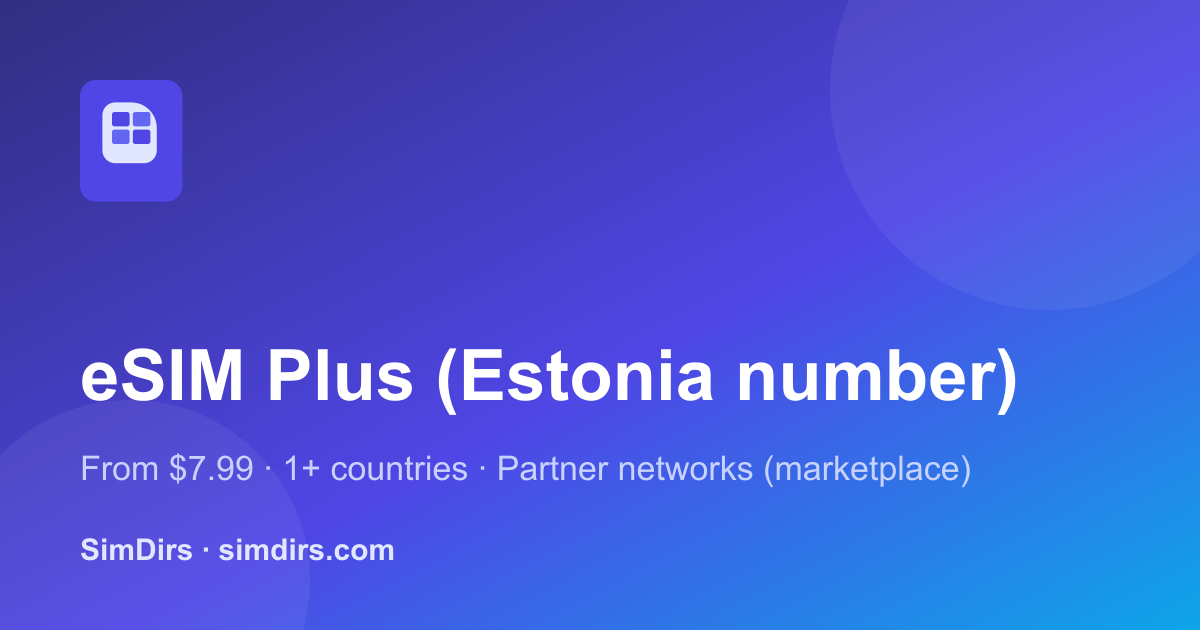
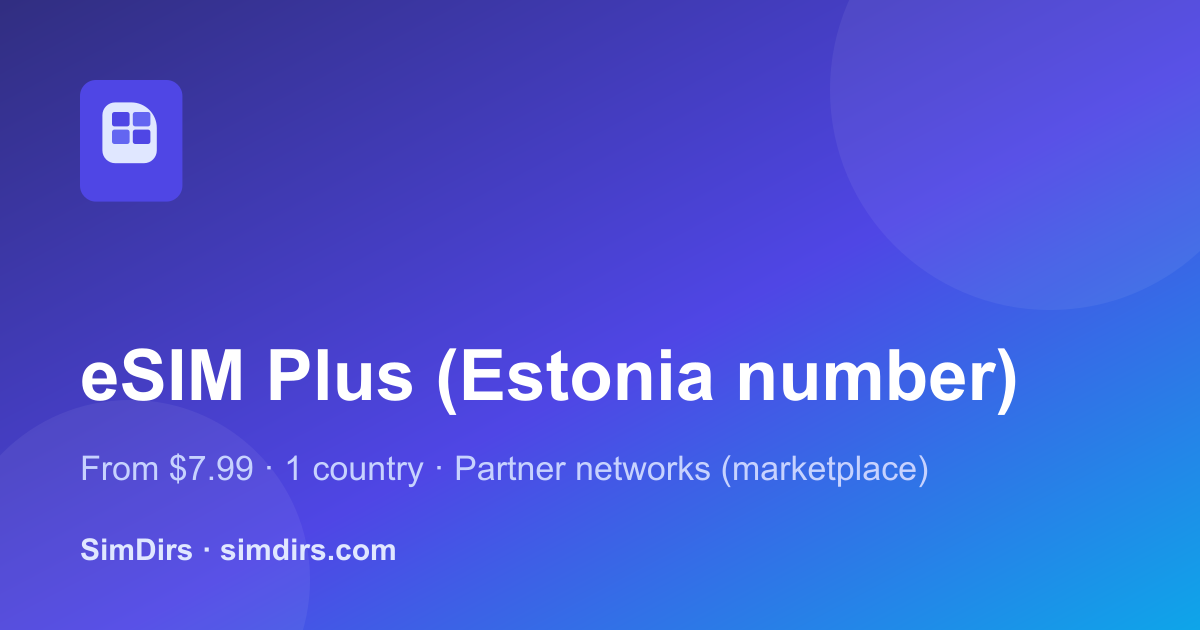
ui: single-country listings show "Single country", not "1+ countries"
18 of 40 listings cover exactly one country (UK, HK, Croatia, Estonia,
Moldova, Austria). Coverage rendered as `${coverage}+ countries & regions`,
so all of them read "1+ countries & regions" on the detail page and
"1+ countries" in their OG image: arithmetically fine, looks like a
template bug, and undersells what the card actually is.

coverageLabel in SimDetailView and `reach` in generate-og now branch at
coverage <= 1. 18 OG images regenerated.

Changed region(s): [[0.2158, 0.7238, 0.8017, 0.7841], [0.185, 0.8444, 0.3392, 0.9048]]

diff --git a/src/i18n/ui.ts b/src/i18n/ui.ts
@@ -54,6 +54,7 @@ const en = {
     from: 'From',
     free: 'Free tier',
     countries: 'countries & regions',
+    singleCountry: 'Single country',
     validity: 'Validity',
     network: 'Network',
     dataFrom: 'Data from',
@@ -191,6 +192,7 @@ const zh: typeof en = {
     from: '低至',
     free: '免费档',
     countries: '个国家和地区',
+    singleCountry: '仅单一国家',
     validity: '有效期',
     network: '网络',
     dataFrom: '流量起步',
